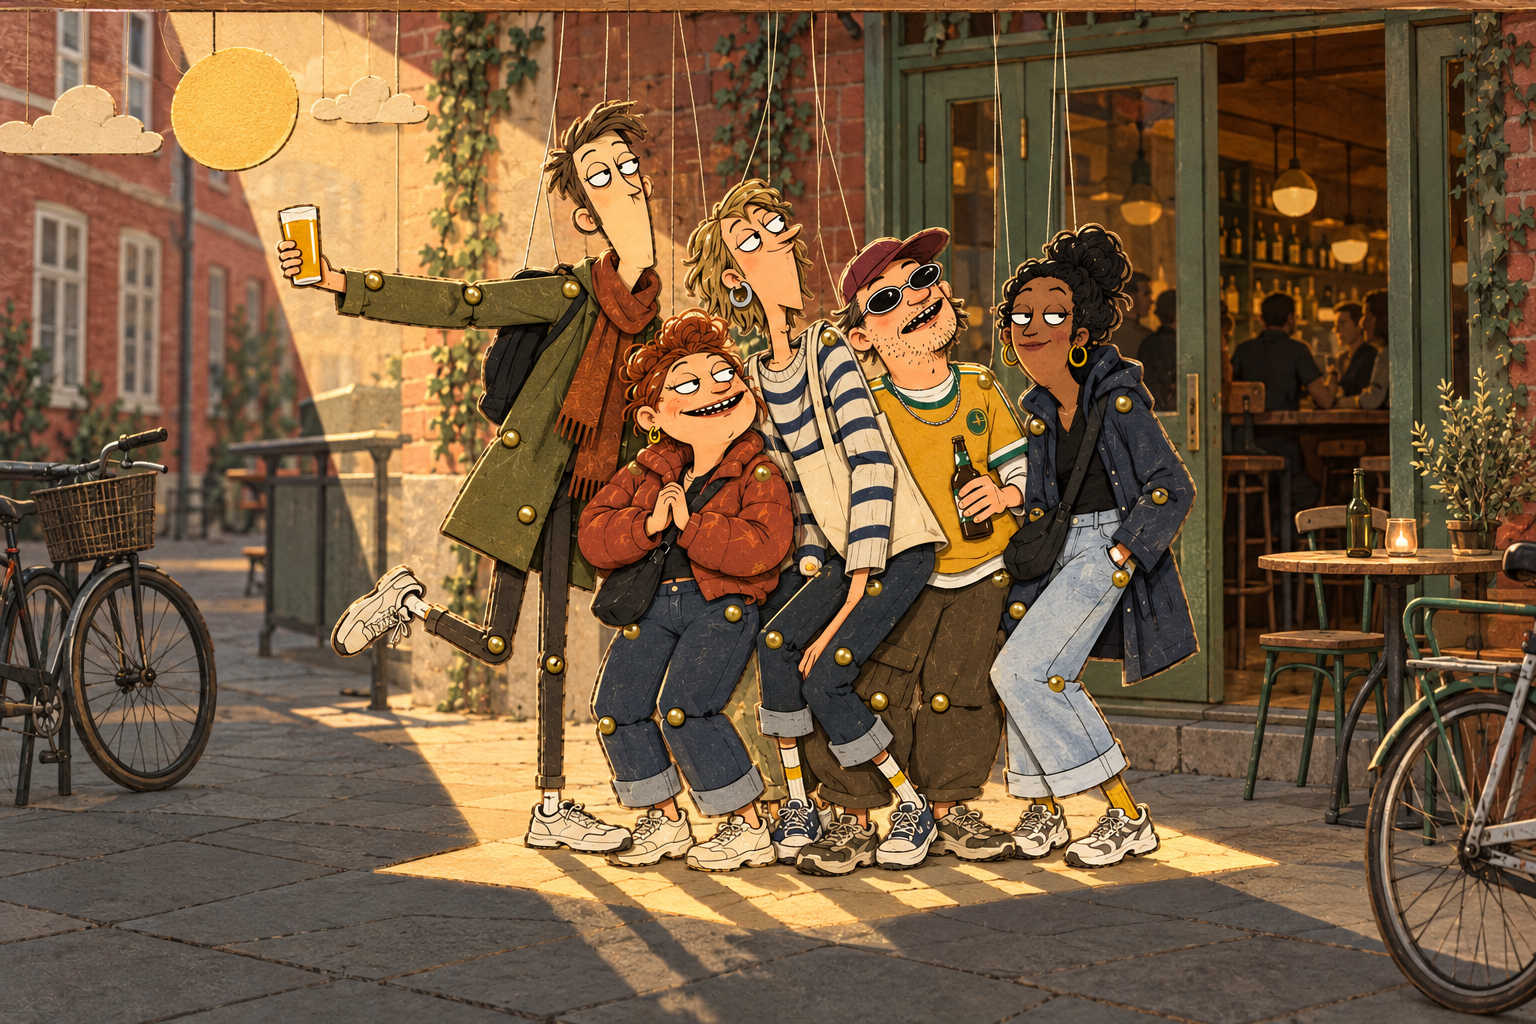
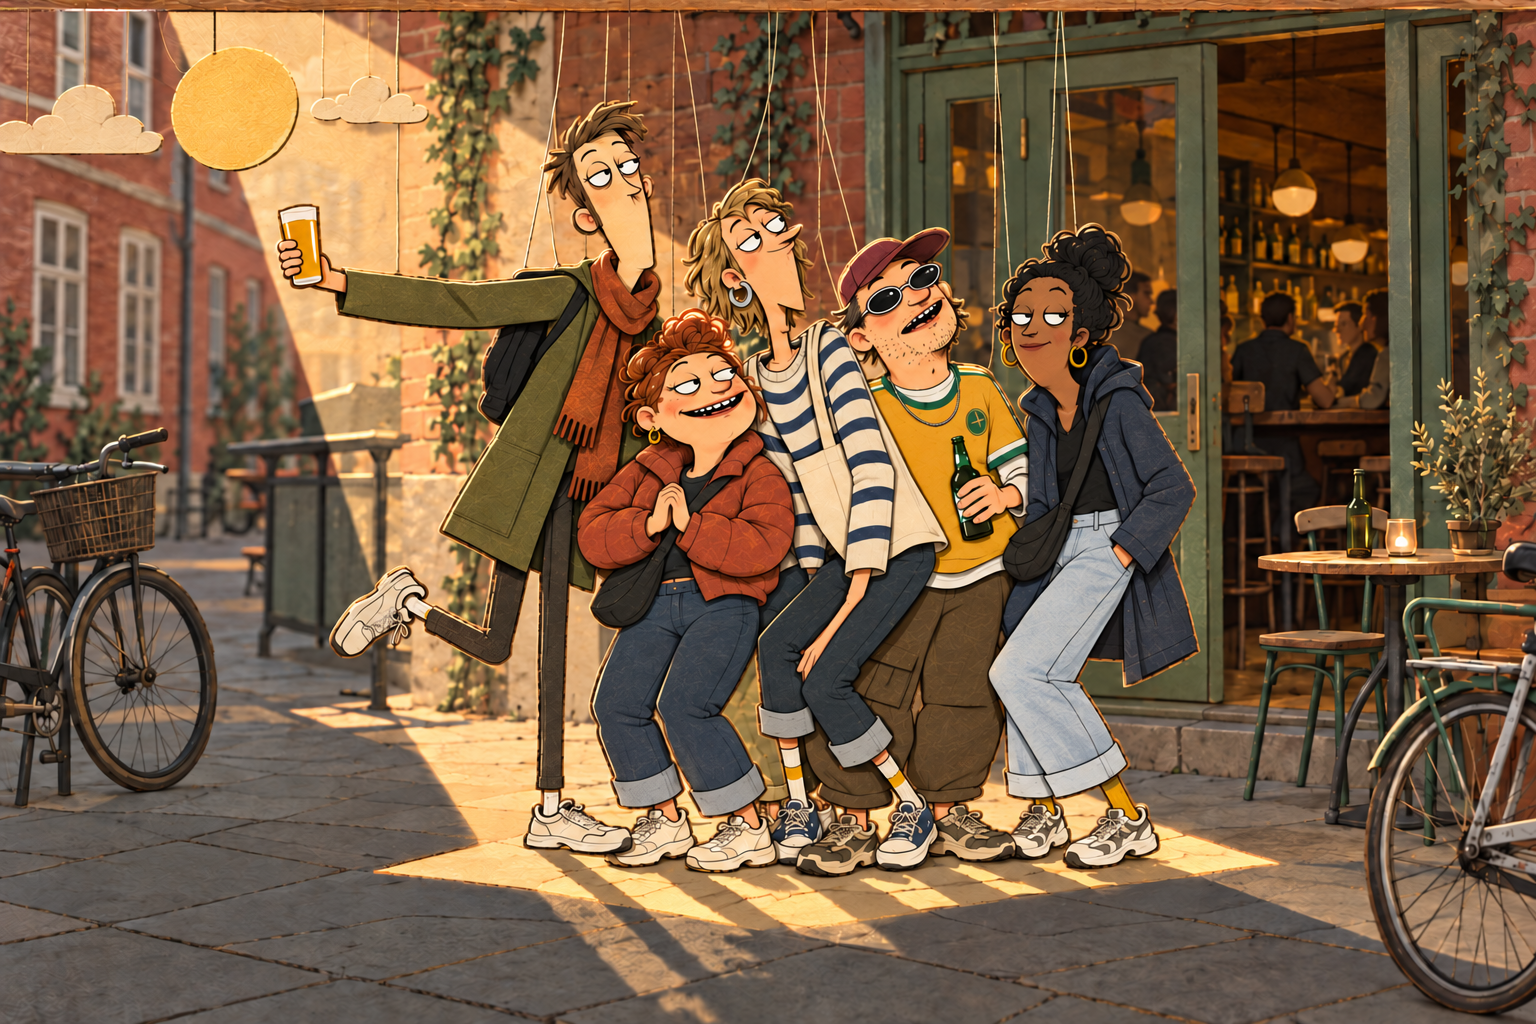
Remove puppet joint rivets and align character gazes

diff --git a/docs/visual-identity.md b/docs/visual-identity.md
@@ -19,7 +19,7 @@ Fraunces is the editorial display face, with DM Sans for controls and data. Pape
 
 ## Cast and scenery
 
-Six original adult puppets use contrasting lanky and squat proportions, half-lidded eyes, expressive noses, imperfect teeth, visible suspension strings and brass paper joints. Practical jackets, wide denim, football shirts, scarves, cycling details and everyday bags place them in contemporary Copenhagen.
+Six original adult puppets use contrasting lanky and squat proportions, half-lidded eyes, expressive noses, imperfect teeth, visible suspension strings and uninterrupted paper clothing. No visible joint rivets, brads or decorative fasteners are used. Pupils share a coherent gaze while the heavy eyelids retain the dry expression. Practical jackets, wide denim, football shirts, scarves, cycling details and everyday bags place them in contemporary Copenhagen.
 
 The supplied cartoon references informed proportion and expression; their actual characters were not copied. Wardrobe research includes original photography from [Copenhagen in August 2026](https://www.vogue.com/slideshow/copenhagen-fashion-week-street-style-spring-2027) and [AW26 street style](https://www.voguescandinavia.com/articles/the-best-street-style-copenhagen-fashion-week-fall-winter-2026).
 
